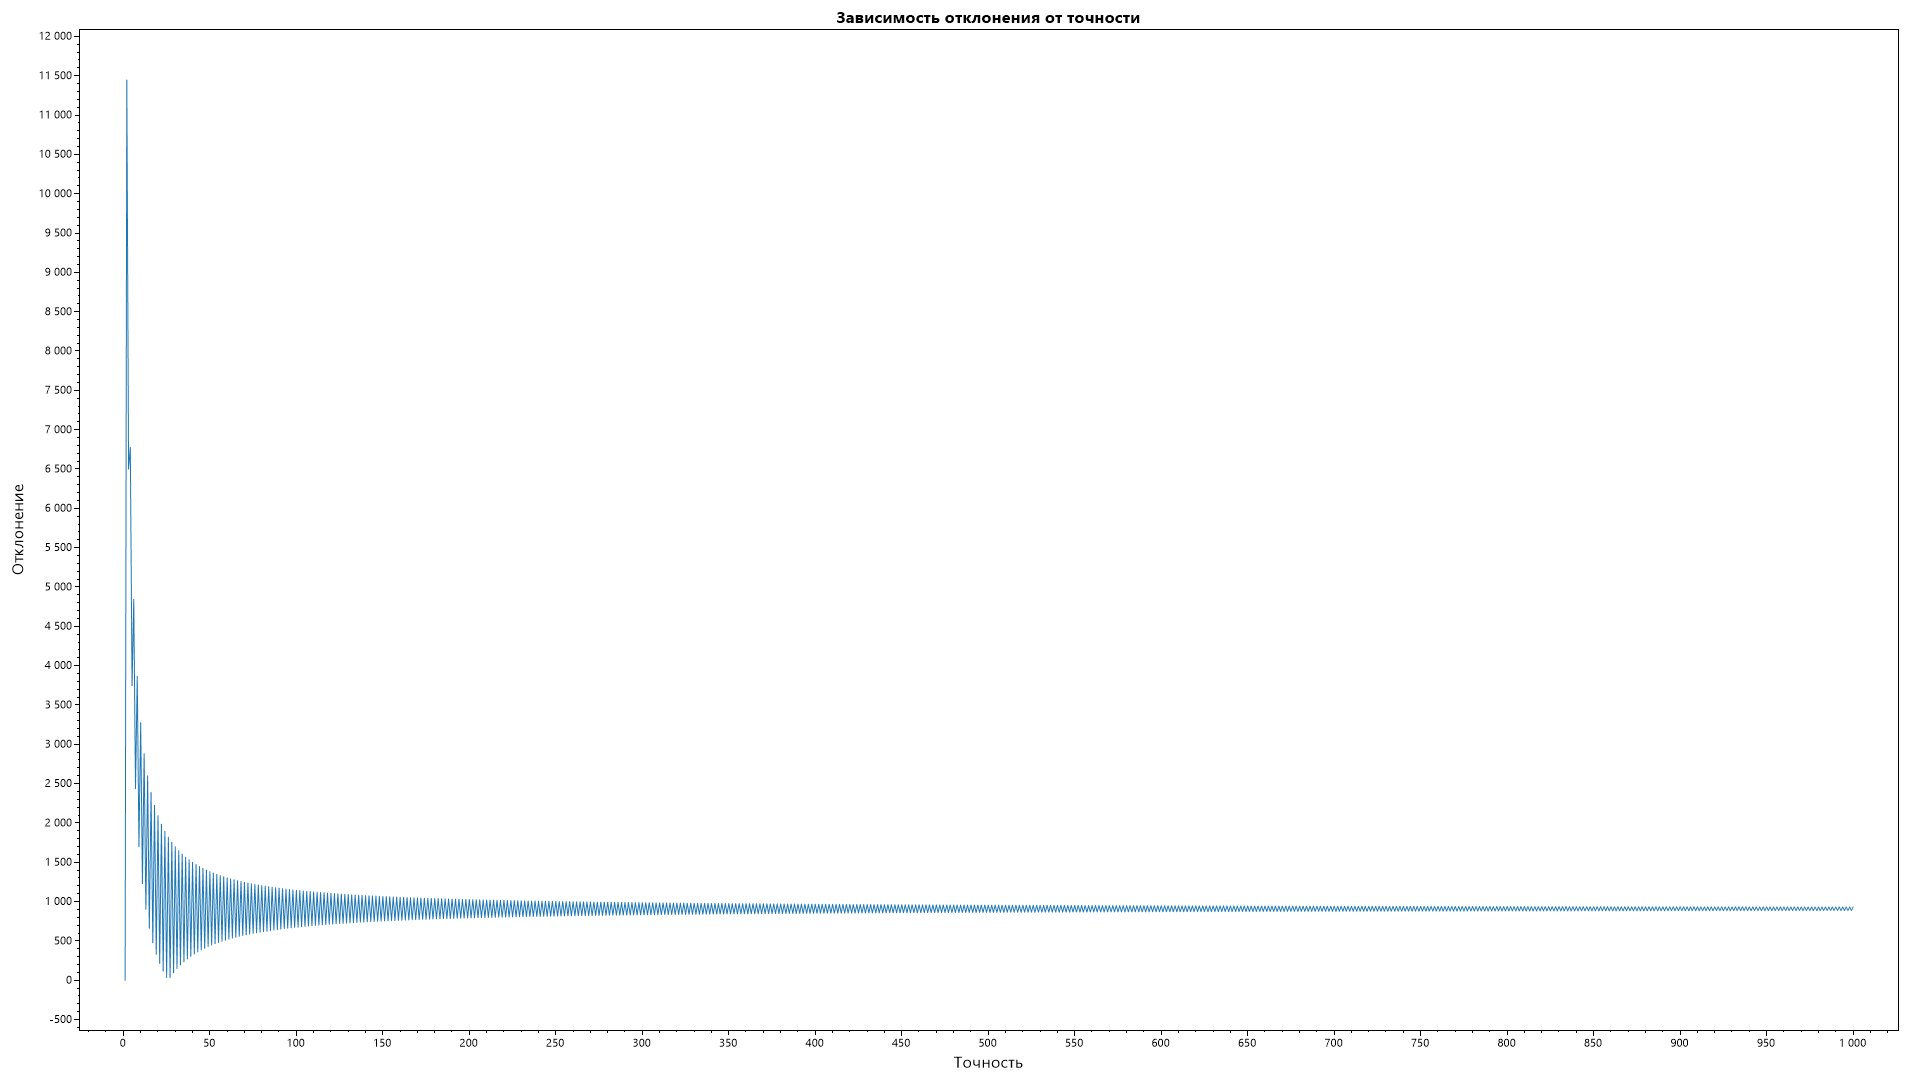
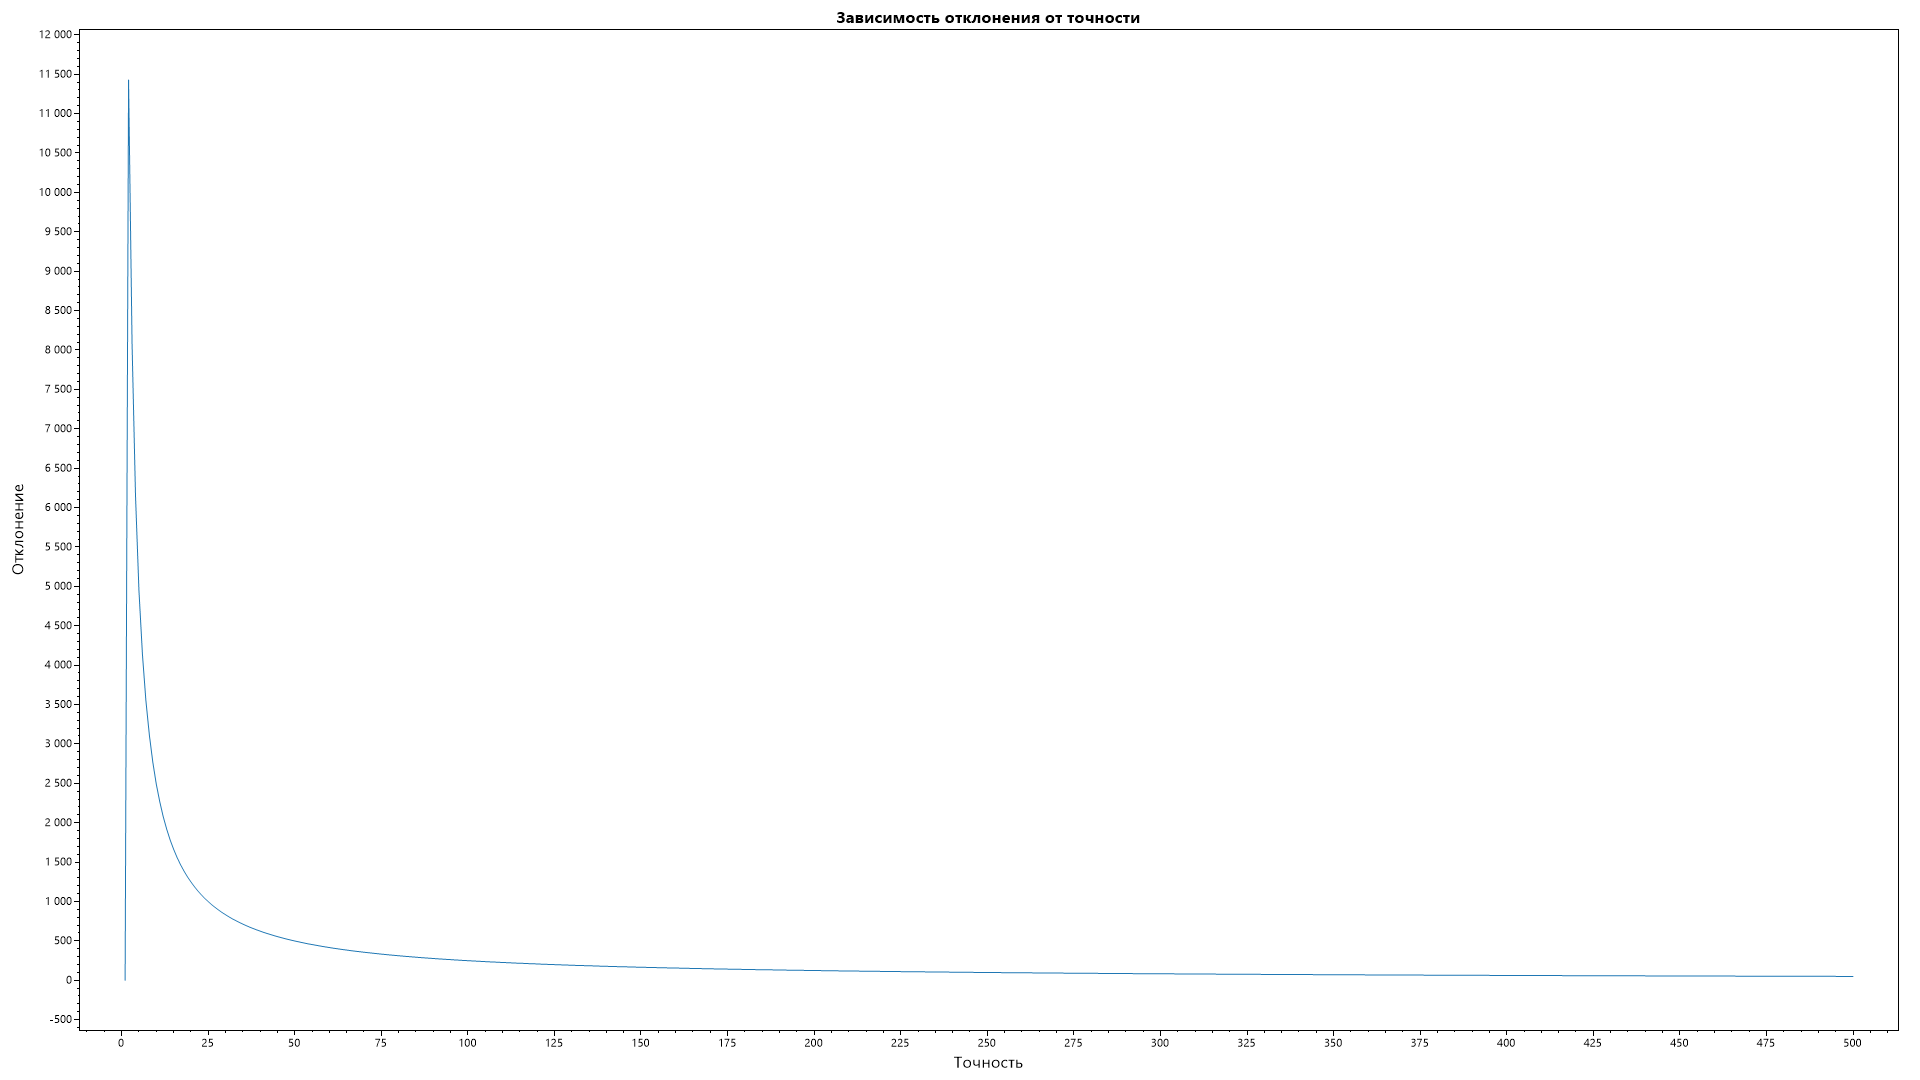
Fix functions and algorythm

Changed region(s): [[0.0625, 0.3972, 0.9375, 0.9167]]

diff --git a/Ufo/Analysis.cs b/Ufo/Analysis.cs
@@ -9,16 +9,49 @@ namespace Ufo
 {
     static internal class Analysis
     {
-        static readonly double distance = 1e5;
         static public readonly Semaphore semaphore = new Semaphore(0, 1);
-        static private int max_acc = 1000;
-        static private double step = 1;
+        static readonly double distance = 1e5;
+        //static readonly double min_distance = 1e-3;
+        //static readonly double max_distance = 1;
+        static readonly int max_acc = (int)5e2;
+        //static readonly int count_of_points = (int)1e2;
+        static readonly double step = 1;
+        
         static private int count = 0;
         static public void Analyse()
-        { 
+        {
             double[] acc = new double[max_acc];
             double[] result = new double[max_acc];
+
+            //double[] acc = new double[count_of_points];
+            //double[] distances = Linspace(min_distance, max_distance, count_of_points);
             count = 0;
+            /*
+            foreach (var dist in distances) 
+            {
+                
+                int good_acc = 0;
+                int start = 1;
+                int end = max_acc;
+                int current_acc = (start + end) / 2;
+                for (int i = 0; i < Math.Ceiling(Math.Log2(max_acc + 1)); i++)
+                {
+                    if (IsEnter(current_acc, dist))
+                    {
+                        good_acc = current_acc;
+                        end = current_acc - 1;
+                    }
+                    else 
+                    {
+                        start = current_acc + 1;
+                    }
+                    current_acc = (start + end) / 2;
+                }
+                acc[count] = good_acc;
+                count++;
+            }
+            Draw(distances, acc);
+            */
             for (int i = 0; i < max_acc; i++) 
             {
                 acc[i] = i + 1;
@@ -27,6 +60,7 @@ namespace Ufo
             }
             
             Draw(acc, result);
+            
             semaphore.Release();
         }
 
@@ -39,20 +73,52 @@ namespace Ufo
             double x1 = startPoint.X, x2 = endPoint.X;
             double y1 = startPoint.Y, y2 = endPoint.Y;
             double angle = MyMath.Atn(Math.Abs(y2 - y1) / Math.Abs(x2 - x1), accuracy);
-
-            double true_distance = Distance(startPoint, endPoint);
-            double current_distance = Distance(startPoint, currentPoint);
+            double distance_to_end = Distance(currentPoint, endPoint);
 
             double current_x = currentPoint.X, current_y = currentPoint.Y;
-            while (current_distance < true_distance)
+            double current_distance = distance_to_end + 1;
+            while (current_distance > distance_to_end)
+            {
+                current_distance = distance_to_end;
+                current_x += step * MyMath.Cos(angle, accuracy);
+                current_y += step * MyMath.Sin(angle, accuracy);
+
+                currentPoint = new PointD(current_x, current_y);
+                distance_to_end = Distance(currentPoint, endPoint);
+            }
+            return Math.Min(distance_to_end, current_distance);
+        }
+
+        static private bool IsEnter(int accuracy, double value) 
+        {
+            PointD startPoint = new PointD(0, 0);
+            PointD endPoint = new PointD(distance / Math.Sqrt(2), distance / Math.Sqrt(2));
+            PointD currentPoint = (PointD)startPoint.Clone();
+
+            double x1 = startPoint.X, x2 = endPoint.X;
+            double y1 = startPoint.Y, y2 = endPoint.Y;
+            double angle = MyMath.Atn(Math.Abs(y2 - y1) / Math.Abs(x2 - x1), accuracy);
+            
+            double distance_to_end = Distance(currentPoint, endPoint);
+
+            double current_x = currentPoint.X, current_y = currentPoint.Y;
+            double current_distance = distance_to_end;
+            while (distance_to_end > value)
             {
                 current_x += step * MyMath.Cos(angle, accuracy);
                 current_y += step * MyMath.Sin(angle, accuracy);
 
                 currentPoint = new PointD(current_x, current_y);
-                current_distance = Distance(startPoint, currentPoint);
+                distance_to_end = Distance(currentPoint, endPoint);
+
+                if (current_distance < distance_to_end) 
+                {
+                    return false;
+                }
+                current_distance = distance_to_end;
+                
             }
-            return Distance(currentPoint, endPoint);
+            return true;
         }
 
         static public double Distance(PointD first, PointD second)
@@ -73,7 +139,15 @@ namespace Ufo
 
         static public float GetProgress() 
         {
+            //return (float)count / count_of_points;
             return (float)count / max_acc;
+        }
+
+        public static double[] Linspace(double start_val, double end_val, int steps)
+        {
+            double interval = (end_val / Math.Abs(end_val)) * Math.Abs(end_val - start_val) / (steps - 1);
+            return (from val in Enumerable.Range(0, steps)
+                    select start_val + (val * interval)).ToArray();
         }
     }
 }

diff --git a/Ufo/MyMath.cs b/Ufo/MyMath.cs
@@ -39,7 +39,7 @@ namespace Ufo
                 result += one * current_x / denominator;
                 one *= -1;
                 current_x *= x * x;
-                denominator *= (i + 1) * (i + 2);
+                denominator *= (2*i + 1) * (2*i + 2);
             }
 
             return result;
@@ -57,7 +57,7 @@ namespace Ufo
                 result += one * current_x / denominator;
                 one *= -1;
                 current_x *= x * x;
-                denominator *= (i + 2) * (i + 3);
+                denominator *= (2 * i + 2) * (2 * i + 3);
             }
 
             return result;

diff --git a/Ufo/Graph.cs b/Ufo/Graph.cs
@@ -133,6 +133,7 @@ namespace Ufo
                 Thread.Sleep(100);
 
             }
+            Analysis.semaphore.WaitOne();
             researchButton.BeginInvoke(() => researchButton.Enabled = true);
             progressBar.BeginInvoke(() => progressBar.Visible = false);
         }
